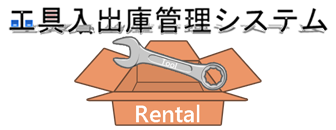
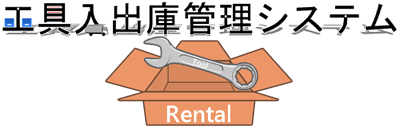
タイトルロゴ大きいサイズにて中央揃え対応済。テーブルの文字列中央揃え対応済

Changed region(s): [[0.0, 0.0, 1.0, 0.8], [0.4762, 0.3077, 0.8036, 0.9846], [0.3274, 0.7692, 0.5952, 0.9846]]

diff --git a/src/main/resources/templates/list-rental.html b/src/main/resources/templates/list-rental.html
@@ -12,7 +12,7 @@
       
         <h2 class="h4">出庫依頼済・出庫済の工具</h2>
         <div th:if="${#lists.size(shippingList) < 1}" class="alert alert-primary">出庫依頼済・出庫済の工具はありません</div>
-        <table th:if="${#lists.size(shippingList) >= 1}" class="table table-bordered">
+        <table th:if="${#lists.size(shippingList) >= 1}" class="table table-bordered text-center">
           <thead>
             <tr>
 			  <th>発送番号</th>
@@ -53,7 +53,7 @@
 					<p class="rentalRequest">確定の場合、「出庫依頼」ボタンを押して工具管理センターへ連絡してください(TEL：012-345-678)　
 						<a th:href="@{/rental/request/{id}(id=*{id})}" class="btn btn-primary">出庫依頼</a>
 					</p>
-					<table class="table table-bordered shippingInfoTable">
+					<table class="table table-bordered shippingInfoTable text-center">
 					  <thead>
 					    <tr>
 						  <th>発送番号</th>
@@ -79,7 +79,7 @@
 					</table>
 				</div>
 			</div>
-			<table class="table table-bordered shippingInfoTable  mb-3">
+			<table class="table table-bordered shippingInfoTable  mb-3 text-center">
 			  <thead>
 			    <tr>
 				  <th>管理番号</th>
@@ -112,7 +112,7 @@
 			</p>
 		</form>
         <div th:if="${#lists.size(toolList) < 1}" class="alert alert-danger">対象の工具はありません</div>
-        <table th:if="${#lists.size(toolList) >= 1}"  class="table table-bordered">
+        <table th:if="${#lists.size(toolList) >= 1}"  class="table table-bordered text-center">
           <thead>
             <tr>
               <th>管理番号</th>

diff --git a/src/main/resources/templates/admin/list-tool.html b/src/main/resources/templates/admin/list-tool.html
@@ -13,7 +13,7 @@
 		 
 		 <h2 class="h4">出庫済</h2>
 		 <div th:if="${#lists.size(shippedList) < 1}" class="alert alert-primary">出庫済の工具はありません</div>
-		 <table th:if="${#lists.size(shippedList) >= 1}" class="table table-bordered">
+		 <table th:if="${#lists.size(shippedList) >= 1}" class="table table-bordered text-center">
 		   <thead>
 		     <tr>
 		 	  <th>発送番号</th>
@@ -44,7 +44,7 @@
 		 
 		 <h2 class="h4">出庫依頼</h2>
 		 <div th:if="${#lists.size(shippingRequestList) < 1}" class="alert alert-primary">出庫依頼の工具はありません</div>
-		 <table th:if="${#lists.size(shippingRequestList) >= 1}" class="table table-bordered">
+		 <table th:if="${#lists.size(shippingRequestList) >= 1}" class="table table-bordered text-center">
 		   <thead>
 		     <tr>
 		 	  <th>発送番号</th>
@@ -83,7 +83,7 @@
 			</p>
 		</form>
 		<div th:if="${#lists.size(toolList) < 1}" class="alert alert-danger">登録されている工具はありません</div>
-        <table  th:if="${#lists.size(toolList) >= 1}" class="table table-bordered">
+        <table  th:if="${#lists.size(toolList) >= 1}" class="table table-bordered text-center">
           <thead>
             <tr>
 			  <th>管理番号</th>

diff --git a/src/main/resources/templates/login-employee.html b/src/main/resources/templates/login-employee.html
@@ -4,9 +4,9 @@
 <body>
   <div class="container">
     <div class="row">
-      <div class="col-md-6 offset-md-3 mt-4">
+      <div class="col-12 col-md-6 mx-auto mt-4">
         <div class="text-center">
-		  <div class="titleLogo"><img th:src="@{/images/tool_inventory_management_system.png}" width="336" height="130" alt="工具入出庫管理システム"></div>
+		  <div class="titleLogo d-flex justify-content-center"><img th:src="@{/images/tool_inventory_management_system.png}" class="img-fluid" alt="工具入出庫管理システム"></div>
           <h1 class="h3">ログイン(工具入出庫依頼者用)</h1>
           <div class="form-signin">
             <div class="alert alert-success" th:if="${message}">[[${message}]]</div>

diff --git a/src/main/resources/templates/admin/login-admin.html b/src/main/resources/templates/admin/login-admin.html
@@ -4,9 +4,9 @@
 <body>
   <div class="container">
     <div class="row">
-      <div class="col-md-6 offset-md-3 mt-4">
+      <div class="col-12 col-md-6 mx-auto mt-4">
         <div class="text-center">
-		  <div class="titleLogo"><img th:src="@{/images/tool_inventory_management_system.png}" width="336" height="130" alt="工具入出庫管理システム"></div>
+		  <div class="titleLogo d-flex justify-content-center"><img th:src="@{/images/tool_inventory_management_system.png}" class="img-fluid" alt="工具入出庫管理システム"></div>
           <h1 class="h3">ログイン(手配者・管理者用)</h1>
           <div class="form-signin">
             <div class="alert alert-success" th:if="${message}">[[${message}]]</div>

diff --git a/src/main/resources/templates/show-tool-list.html b/src/main/resources/templates/show-tool-list.html
@@ -22,7 +22,7 @@
 			<div class="alert alert-success" th:if="${message}">
 				[[${message}]]
 			</div>
-			<table class="table table-bordered">
+			<table class="table table-bordered text-center">
 			  <thead>
 			    <tr>
 				  <th>管理番号</th>

diff --git a/src/main/resources/templates/admin/list-employee.html b/src/main/resources/templates/admin/list-employee.html
@@ -18,7 +18,7 @@
            [[${message}]]
         </div>
       
-        <table class="table table-bordered">
+        <table class="table table-bordered text-center">
           <thead>
             <tr>
               <th>ログインID</th>

diff --git a/src/main/resources/static/css/style.css b/src/main/resources/static/css/style.css
@@ -33,9 +33,9 @@
   border-top-right-radius: 0;
 }
 
-.titleLogo {
-	text-align: center;
-	margin-bottom: 10px;
+.titleLogo img {
+  max-width: 400px;
+  margin-bottom: 10px;
 }
 
 /* 工具の追加・編集 */
